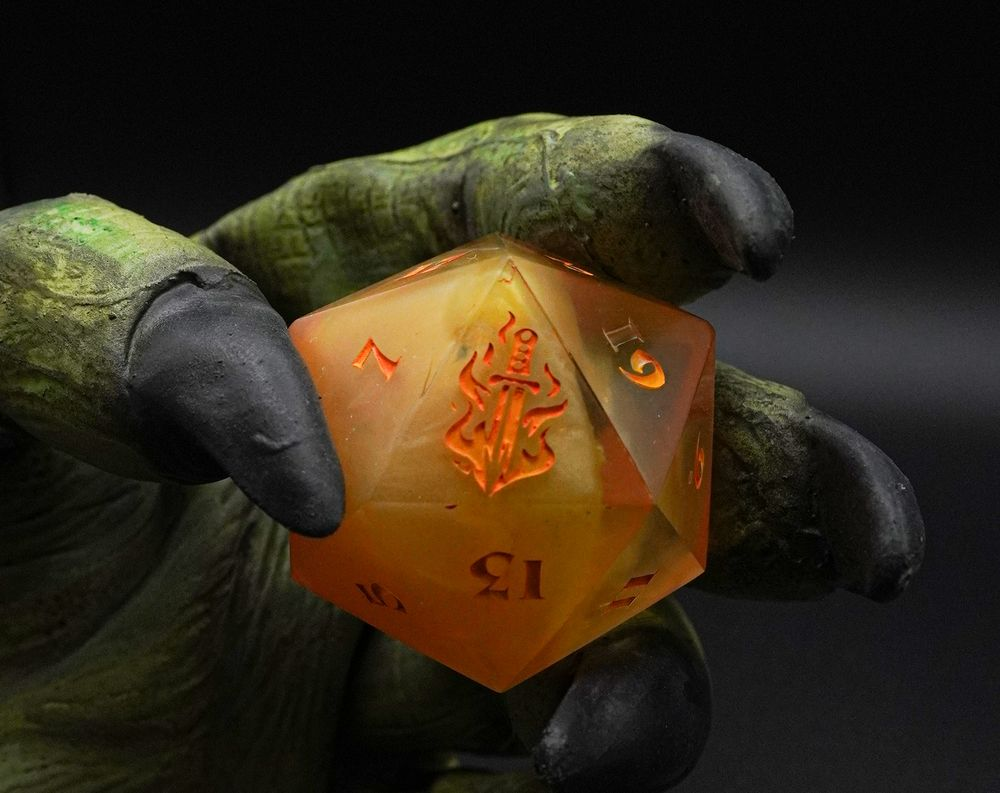
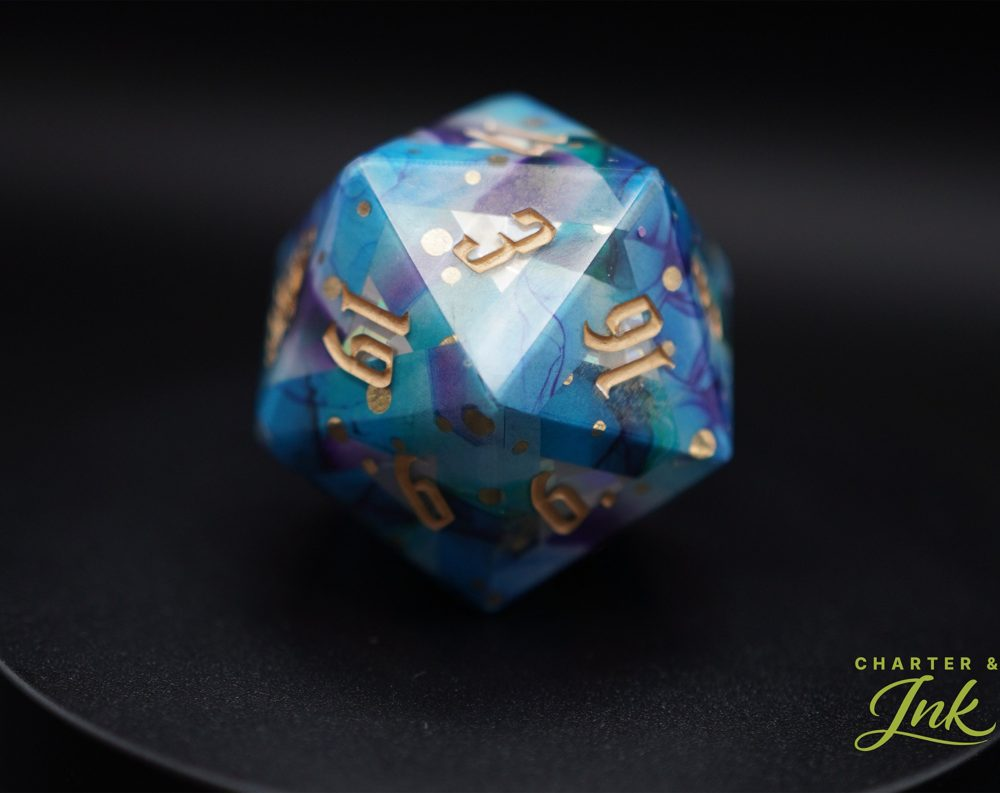
New Chonks and Singles covers, softer sculpt copy, Bekka Designs map credit
Claude-Session: https://claude.ai/code/session_01XfZJNJZHSc4aGa2eX4J6BK

diff --git a/public/index.html b/public/index.html
@@ -4,9 +4,9 @@
 <meta charset="utf-8">
 <meta name="viewport" content="width=device-width, initial-scale=1">
 <title>Charter &amp; Ink | Fantasy art you can roll</title>
-<meta name="description" content="Sculpted resin dice and fantasy art from a small studio in Jefferson City, Missouri. Original sigils, sharp-edge sets and chonk D20s, poured and inked by hand. Every one is made to roll.">
+<meta name="description" content="Handmade resin dice and fantasy art from a small studio in Jefferson City, Missouri. Original sigils, sharp-edge sets and chonk D20s, poured and inked by hand. Every one is made to roll.">
 <meta property="og:title" content="Charter & Ink | Fantasy art you can roll">
-<meta property="og:description" content="Original sculpts, poured in small batches and finished by hand. Every one is made to roll.">
+<meta property="og:description" content="Resin dice poured in small batches and finished by hand. Every one is made to roll.">
 <meta property="og:image" content="https://charterandink.com/img/share.jpg">
 <meta property="og:url" content="https://charterandink.com/">
 <meta name="twitter:card" content="summary_large_image">
@@ -38,7 +38,7 @@
   <div class="hero-copy">
     <p class="kicker rise" style="--d:0">Fantasy art studio · Jefferson City, Missouri</p>
     <h1 class="rise" style="--d:1">Fantasy art<br>you can <i>roll.</i></h1>
-    <p class="lede rise" style="--d:2">Original sculpts, poured in small batches and finished by hand. Every one is made to roll.</p>
+    <p class="lede rise" style="--d:2">Resin dice poured in small batches and finished by hand. Every one is made to roll.</p>
     <div class="actions rise" style="--d:3">
       <a class="btn" href="/shop/">Shop the dice</a>
       <a class="btn ghost" href="/commissions/">Start a commission</a>
@@ -84,7 +84,7 @@
       </div>
     </a>
     <a class="kind" href="/shop/?c=Chonks">
-      <div class="kind-img"><img src="/img/cover-chonks.jpg" alt="Amber Emberblade chonk D20 in an ogre's hand" loading="lazy"></div>
+      <div class="kind-img"><img src="/img/cover-chonks.jpg" alt="Blue and violet chonk D20 with gold numbers" loading="lazy"></div>
       <div class="kind-body">
         <h3>Chonks</h3>
         <p>35mm and 55mm D20s that take over the table.</p>
@@ -92,7 +92,7 @@
       </div>
     </a>
     <div class="kind soon">
-      <div class="kind-img" style="--a:#1d1a14;--b:#5a4326;--c:#c27a3a"><span class="tag">Coming soon</span></div>
+      <div class="kind-img"><img src="/img/cover-singles.jpg" alt="A single D20 packed in a Charter &amp; Ink box" loading="lazy"><span class="tag">Coming soon</span></div>
       <div class="kind-body">
         <h3>Singles</h3>
         <p>One die, one idea. Standout sculpts and spares.</p>
@@ -105,7 +105,7 @@
 <section class="sigils">
   <div class="section-head">
     <p class="kicker">The sigils</p>
-    <h2>Every sigil is an original.</h2>
+    <h2>Every sigil is unique.</h2>
   </div>
   <div class="sigil-row">
     <a href="/shop/?q=Emberblade"><svg class="sigil" viewBox="-0.1 5.4 137.5 137.5" aria-hidden="true" fill="currentColor"><path d="M94.1643,120.3224c-6.8021,3.6608-16.2111,3.3897-24.0183,7.8155-4.4939,2.5475-8.2828,5.8067-12.2903,9.0098l-2.7506,1.8624-2.3175-5.471c-1.2593-2.9729-2.9878-5.7666-5.0285-8.2488-3.5777-4.3518-.1306-8.4928-1.5301-10.4234l-3.1009-4.2778c-2.5174-.7189-4.5925-1.9198-6.9455-3.087-3.3943-1.6839-6.6608-3.7586-8.0815-7.6242-.7881-2.1442-.6251-5.9194,1.0492-7.7028,4.3906-4.6764,10.7341-8.4666,13.4653-13.255,1.0927-1.9158,1.1177-4.7135-.7094-6.1016l-2.3362-1.7749c2.6411.0093,5.3175,1.3545,6.3071,3.7723,1.6843,4.1152.4532,9.0128-2.3944,12.2429l-3.1739,3.6003c-1.124,1.275-1.3562,3.5127-.7094,5.1519.287.7273,1.6357,2.0514,2.4414,2.0862l4.4703.1931c-1.9895-3.735-1.2154-7.4318,2.2358-9.4169l6.7074-3.8582-.4748,7.8679c-.1012,1.676.1633,3.3467,1.0306,4.8571,1.8544-5.686,2.8272-11.0072,4.3707-16.5415l4.9252-17.6589c.4198-1.5052,1.8947-2.2831,3.3602-1.9971l3.0984.6045-3.5164,13.3371-8.4828,31.7386-2.0705,11.771-1.6732-11.1391c-.2432-1.6192-.724-3.2211-1.2797-4.7051l.215,35.2047,5.7052-11.2293c4.6785-8.0281,8.1604-16.5343,9.0123-25.9957-2.0773,5.7856-4.2938,11.2629-7.4777,16.8806-.3391-1.5785-.2459-3.1321.0497-4.9483l10.0164-42.6058c.6457-2.7465,1.4756-5.0672,2.2677-7.7154l6.3782,1.5465c.665.1612,1.0356,1.9399.869,2.6446l-9.6183,40.6988c-1.4471,6.1232-3.3706,11.6421-5.5391,17.6232,2.5084-2.5292,4.6691-4.9867,7.1839-7.2519,1.5904-1.4326,3.2006-2.4679,4.7051-4.1491l-.6563-4.0874c-.3836-2.3891.0436-4.6418,2.1232-5.922,1.7051,1.8639,2.9288,4.3283,4.92,5.8375,1.4741,1.1173,3.6364-.7017,4.5135-1.7168,3.299-3.8181-2.7956-8.3096,1.2459-12.8207,2.6771-2.9881,5.7834-5.3218,9.382-7.3187-1.1763,2.329-2.5061,4.3647-4.0371,6.3332-2.1557,2.7717-1.9633,6.0581.6006,8.5083,2.2187,2.1204,4.0041,4.9896,3.9744,8.2006-.0387,4.1796-2.6625,7.6384-6.4108,9.6557Z"/> <path d="M84.8867,55.6795c-.6023,1.1205-6.6867-.9347-11.2232-1.2684-2.1024-.1546-4.1539.3948-6.4826.38l4.4091-12.5111,2.2451-7.829c.7488-2.6111-1.0984-5.6663.0878-7.158,1.1874-1.4932,2.6217-2.6274,4.1972-3.4879,3.7546-2.0507,7.8143-.8677,10.5686,2.215.9442,1.0568,2.103,2.1672,2.1871,3.6206.1001,1.7315-1.3979,2.7039-2.1183,4.0885-.9128,1.7543-1.8194,3.777-2.2581,5.7312l-2.5896,11.5348,1.1992,3.2462c.1023.2769-.0868,1.1864-.2221,1.4381ZM85.4413,27.5787c-1.1774-1.6707-3.0254-1.7381-4.43-1.0379-1.3527.6744-2.2543,2.823-1.3801,4.1596,2.3353,1.2471,5.3803-.431,5.8101-3.1217ZM81.6442,38.594l1.7706-3.1461c-1.7917-.7467-3.2499-.9912-4.9552-.7169-.439.7906-.718,1.9138-.7234,2.7435l3.9079,1.1194ZM79.5835,44.7545l1.9013-3.0132c-1.6465-.7413-3.1148-1.394-4.751-.9642-.6779.2051-1.1101,2.0063-.9599,2.6095l3.8096,1.3679ZM79.6645,49.37c.0833-.382-.0901-1.3715-.4143-1.6369-1.0302-.8433-3.1594-1.4878-4.4052-.568-.626.4622-1.145,1.5157-1.5133,2.3208,2.8277,1.0801,5.9326,1.719,6.3328-.116Z"/> <path d="M47.8567,62.5739l3.6526,6.5756c1.1206,2.0174,1.7913,4.1396,2.6726,6.3582.4032,1.015.3845,3.1682-.352,3.9046-1.8815,1.8816-3.9577-4.0576-6.2538-6.3009l-8.1171-7.9303c-3.8235-4.7784-2.8096-12.0338,1.3284-16.3825,3.8132-4.0074,7.1978-7.1612,6.4516-12.9567,4.4862,4.0399,2.8397,7.0735.0427,12.0345-1.4672,2.6024-1.8646,5.8454-.1228,8.3156,4.4089,6.2525,10.6084,7.5526,11.356,10.5106.4658,1.8427.2205,3.339-1.1816,4.5633l-1.832-4.4284-.6944,2.878c-1.4039-3.25-3.5292-5.8016-6.9502-7.1417Z"/> <path d="M81.651,98.3032l4.0053-13.7343-5.4868,8.5173c-.7752-2.1648-1.1934-4.4563-.9087-6.8251.6374-5.3027,4.7298-8.9368,10.0981-9.3152,5.0815-.3583,9.9613-.6715,14.9496-2.0196,1.3541-.3659,2.3097-1.8046,3.0455-2.8863l1.8772-2.7597c.5691,3.0726.3981,5.8808-.542,8.6793-1.1819,3.5185-5.1724,5.9352-8.6709,6.3493-2.7274.3228-4.8365,1.441-6.8379,3.1815-2.1021,1.8281-4.1534,3.589-6.0214,5.6292-1.6172,1.9568-3.2124,3.5426-5.5082,5.1834Z"/> <path d="M85.5718,67.0732c-.5868-2.2-2.5006-4.0066-4.7641-4.4941l-14.17-3.052c-3.4582.5732-5.8226,4.0487-9.6206,3.0919-1.256-2.7404-.1554-6.1748,2.6029-7.7196.8547-.4787,2.4653-.5388,3.4872-.2973,8.1123,1.917,15.997,3.6624,24.2779,4.6728,1.6024.1955,3.4778.5743,4.0227,2.3112.9157,2.9186-1.9124,7.6606-3.8286,7.4289-1.0832-.131-1.7124-.8362-2.0073-1.9418Z"/> <path d="M102.4944,67.9956c-3.2314,2.7602-7.3166,3.0036-11.0825,2.4354,2.7189-1.0939,4.7926-1.9985,6.4742-3.8923,3.1767-3.5778,1.3091-7.1429-2.071-10.2912-3.384-3.1518-3.2232-8.2404.4538-11.1757l1.5937,7.4847c.642,3.015,5.7399,5.4258,6.8861,8.0079,1.1572,2.6068-.0727,5.5677-2.2542,7.4312Z"/> <path d="M68.6438,26.3531c-1.2847,1.4861.9266,6.2184.3588,9.6864-2.0409-1.6299-3.7397-3.135-4.9939-5.3723-1.0274-1.8326-1.4921-4.6384.1124-6.2269l5.8613-5.8029c1.3521-1.2569,1.5886-3.0965.8087-4.7377l-2.1867-4.6013,4.1333,2.3603c2.3659,1.3511,4.1881,6.6217,1.6552,9.0053-2.0389,1.9188-3.8973,3.5471-5.749,5.6889Z"/> <path d="M63.0354,49.762c-.4495.7172-1.6148,1.0675-2.4596.7817l-5.1336-1.7367c-1.5684-.5306-3.6205-2.8965-2.821-4.5638l3.5512-7.4054c.9352-1.9501.1334-4.3118-.0595-6.5081,1.1311,1.1352,2.3808,2.2595,3.3443,3.5509,1.4001,1.8765,2.0661,4.7289,1.3676,6.9561-.383,1.2212-1.7158,2.1576-2.4344,3.202-.8641,1.2557-.4809,3.5897.7,4.5327l3.945,1.1907Z"/> <path d="M44.8777,115.6618c1.2237,1.3374-.4871,4.3067-2.1622,6.5817-5.7893-3.2491-10.3013-7.3388-13.0477-13.1151,2.3261,1.0363,4.3143,3.1011,6.713,3.7533l6.6359,1.8043c.6234.1695,1.5143.5969,1.861.9758Z"/> <path d="M35.6875,79.3431c-3.3232.8222-4.6907-4.4346-4.3472-8.7705l3.2865,4.8831c.6323.9394,2.1355,2.4703,1.0607,3.8874Z"/> <path d="M105.9524,92.9564c-.3757.669-2.5986.2152-2.5911-.6303.0207-2.3348,2.6017-3.6804,4.693-3.1126l-2.1019,3.743Z"/></svg><b>Emberblade</b></a>
@@ -138,7 +138,7 @@
   <div>
     <p class="kicker">The workshop</p>
     <h2>Sculpted, poured, inked, checked.</h2>
-    <p>Every die starts as a sculpture on our bench in Jefferson City. See how they're made, and what's come off the bench lately.</p>
+    <p>Every die is poured and finished on our bench in Jefferson City. See how they're made, and what's come off the bench lately.</p>
     <a class="btn ghost" href="/workshop/">Visit the workshop</a>
   </div>
 </section>
@@ -155,7 +155,7 @@
     <a href="mailto:mike@charterandink.com">mike@charterandink.com</a><a href="https://www.instagram.com/charterandink">Instagram</a><a href="https://charterandink.etsy.com">Etsy</a>
   </p>
   <p>Handmade in Jefferson City, Missouri</p>
-  <p class="fine">© <span class="yr">2026</span> Charter &amp; Ink</p>
+  <p class="fine">© <span class="yr">2026</span> Charter &amp; Ink · Map art used with thanks to Bekka Designs</p>
 </footer>
 
 <script src="/shop.js"></script>

diff --git a/public/workshop/index.html b/public/workshop/index.html
@@ -4,7 +4,7 @@
 <meta charset="utf-8">
 <meta name="viewport" content="width=device-width, initial-scale=1">
 <title>The Workshop | Charter &amp; Ink</title>
-<meta name="description" content="How Charter & Ink dice are made: sculpted by hand, poured in small batches, inked one face at a time and balance-checked. Plus photos from the workbench in Jefferson City, Missouri.">
+<meta name="description" content="How Charter & Ink dice are made: poured in small batches, inked one face at a time and balance-checked. Plus photos from the workbench in Jefferson City, Missouri.">
 <meta property="og:title" content="The Workshop | Charter & Ink">
 <meta property="og:description" content="Where the dice come from. Sculpted, poured, inked, checked.">
 <meta property="og:image" content="https://charterandink.com/img/share.jpg">
@@ -35,13 +35,13 @@
   <div class="page-head">
     <p class="kicker">The Workshop</p>
     <h1>Where the dice come from.</h1>
-    <p class="lede">Every die starts as a sculpture on this bench. Here's how they're made, and some of what's come off it lately.</p>
+    <p class="lede">Every die is poured and finished on this bench. Here's how they're made, and some of what's come off it lately.</p>
   </div>
 
   <section class="made">
     <h2>How it's made</h2>
     <ol class="steps">
-      <li><span>I</span><h3>Sculpt</h3><p>Every sigil starts as a master sculpted by hand. No stock molds with a logo slapped on.</p></li>
+      <li><span>I</span><h3>Sculpt</h3><p>Our sigils start as masters sculpted by hand, then become the molds for each pour.</p></li>
       <li><span>II</span><h3>Pour</h3><p>Small batches of resin, pigment and powder. No two come out the same.</p></li>
       <li><span>III</span><h3>Ink</h3><p>Numbers inked by hand, one face at a time.</p></li>
       <li><span>IV</span><h3>Check</h3><p>Every die is balance-checked before it ships.</p></li>
@@ -80,7 +80,7 @@
     <a href="mailto:mike@charterandink.com">mike@charterandink.com</a><a href="https://www.instagram.com/charterandink">Instagram</a><a href="https://charterandink.etsy.com">Etsy</a>
   </p>
   <p>Handmade in Jefferson City, Missouri</p>
-  <p class="fine">© <span class="yr">2026</span> Charter &amp; Ink</p>
+  <p class="fine">© <span class="yr">2026</span> Charter &amp; Ink · Map art used with thanks to Bekka Designs</p>
 </footer>
 
 <script src="/shop.js"></script>

diff --git a/public/policies.html b/public/policies.html
@@ -52,7 +52,7 @@
     <a href="mailto:mike@charterandink.com">mike@charterandink.com</a><a href="https://www.instagram.com/charterandink">Instagram</a><a href="https://charterandink.etsy.com">Etsy</a>
   </p>
   <p>Handmade in Jefferson City, Missouri</p>
-  <p class="fine">© <span class="yr">2026</span> Charter &amp; Ink</p>
+  <p class="fine">© <span class="yr">2026</span> Charter &amp; Ink · Map art used with thanks to Bekka Designs</p>
 </footer>
 <script src="/shop.js"></script>
 </body>

diff --git a/public/commissions/index.html b/public/commissions/index.html
@@ -118,7 +118,7 @@
     <a href="mailto:mike@charterandink.com">mike@charterandink.com</a><a href="https://www.instagram.com/charterandink">Instagram</a><a href="https://charterandink.etsy.com">Etsy</a>
   </p>
   <p>Handmade in Jefferson City, Missouri</p>
-  <p class="fine">© <span class="yr">2026</span> Charter &amp; Ink</p>
+  <p class="fine">© <span class="yr">2026</span> Charter &amp; Ink · Map art used with thanks to Bekka Designs</p>
 </footer>
 
 <script src="/shop.js"></script>

diff --git a/public/product.html b/public/product.html
@@ -37,7 +37,7 @@
     <a href="mailto:mike@charterandink.com">mike@charterandink.com</a><a href="https://www.instagram.com/charterandink">Instagram</a><a href="https://charterandink.etsy.com">Etsy</a>
   </p>
   <p>Handmade in Jefferson City, Missouri</p>
-  <p class="fine">© <span class="yr">2026</span> Charter &amp; Ink</p>
+  <p class="fine">© <span class="yr">2026</span> Charter &amp; Ink · Map art used with thanks to Bekka Designs</p>
 </footer>
 
 <script src="/shop.js"></script>

diff --git a/public/shop/index.html b/public/shop/index.html
@@ -58,7 +58,7 @@
     <a href="mailto:mike@charterandink.com">mike@charterandink.com</a><a href="https://www.instagram.com/charterandink">Instagram</a><a href="https://charterandink.etsy.com">Etsy</a>
   </p>
   <p>Handmade in Jefferson City, Missouri</p>
-  <p class="fine">© <span class="yr">2026</span> Charter &amp; Ink</p>
+  <p class="fine">© <span class="yr">2026</span> Charter &amp; Ink · Map art used with thanks to Bekka Designs</p>
 </footer>
 
 <script src="/shop.js"></script>

diff --git a/public/thanks.html b/public/thanks.html
@@ -42,7 +42,7 @@
     <a href="mailto:mike@charterandink.com">mike@charterandink.com</a><a href="https://www.instagram.com/charterandink">Instagram</a><a href="https://charterandink.etsy.com">Etsy</a>
   </p>
   <p>Handmade in Jefferson City, Missouri</p>
-  <p class="fine">© <span class="yr">2026</span> Charter &amp; Ink</p>
+  <p class="fine">© <span class="yr">2026</span> Charter &amp; Ink · Map art used with thanks to Bekka Designs</p>
 </footer>
 
 <script src="/shop.js"></script>
